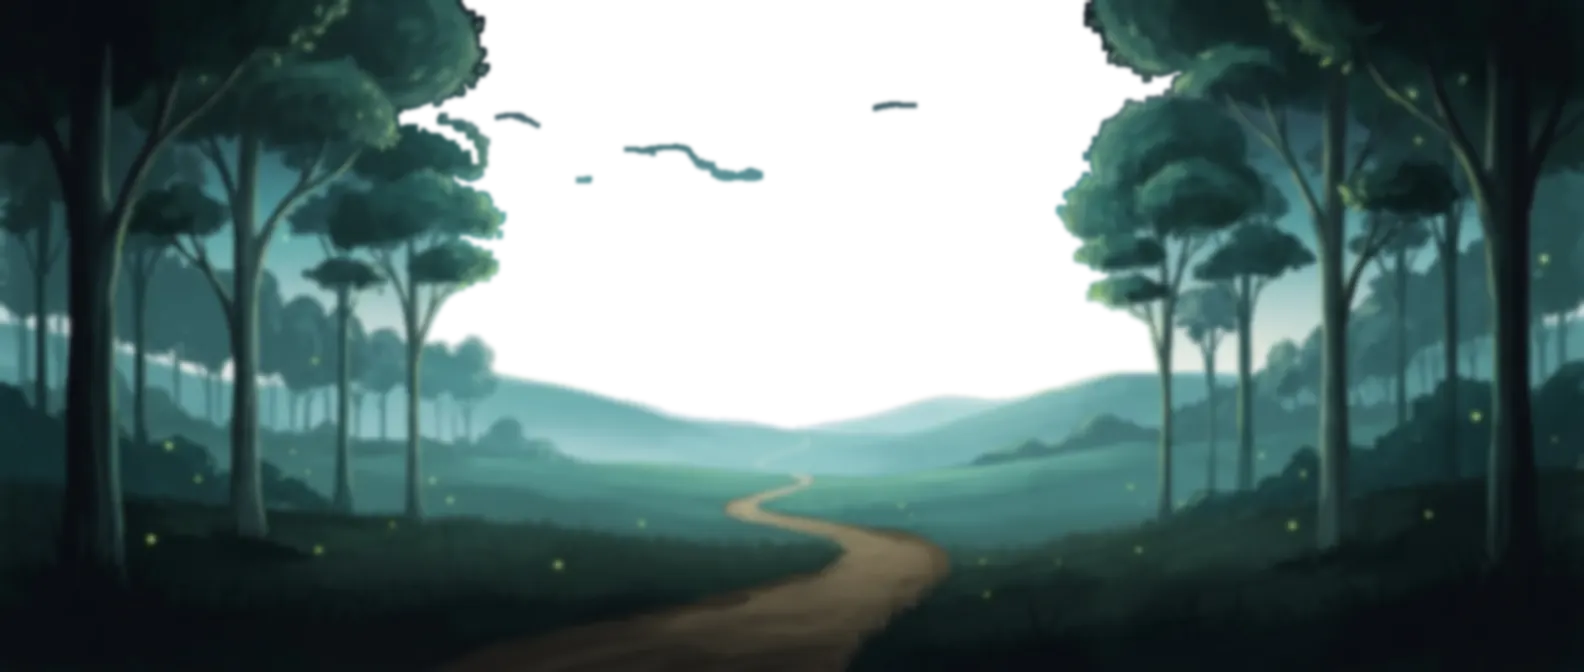
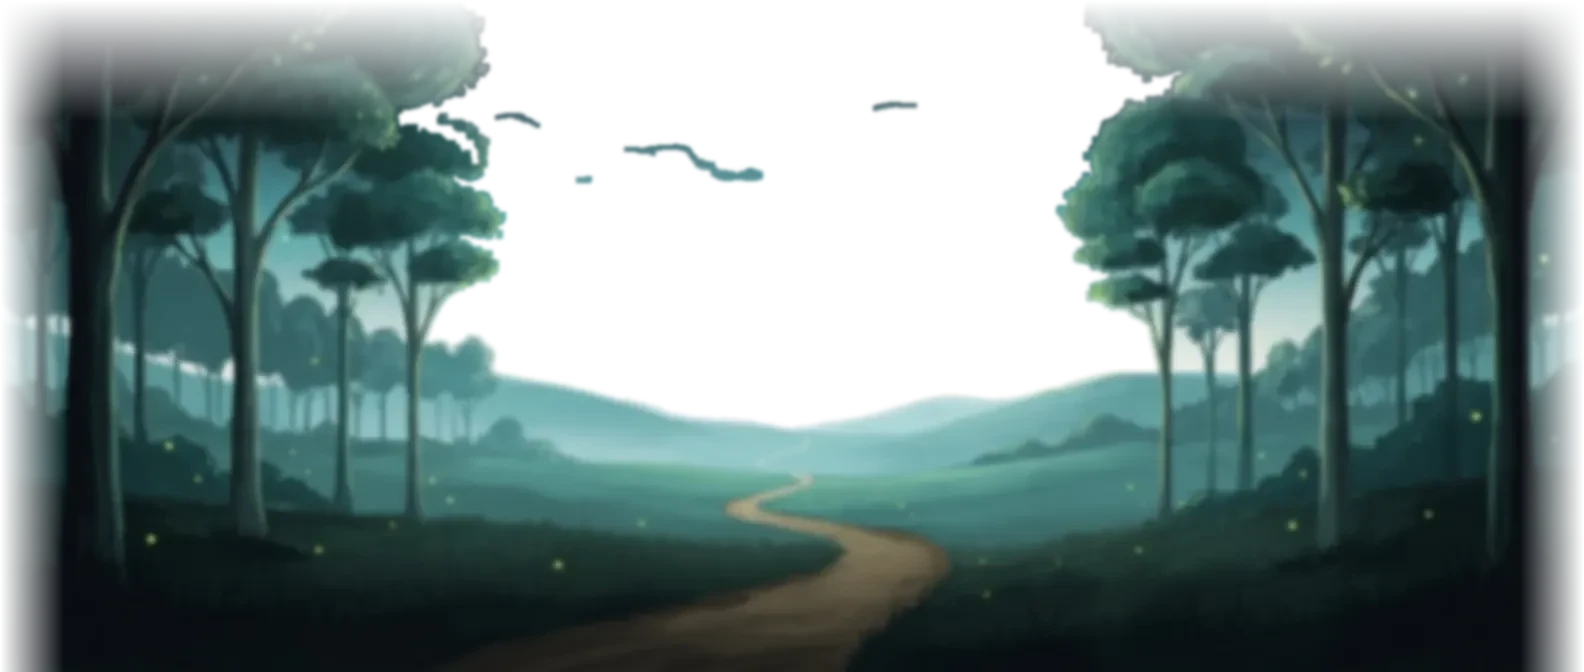
fix(bloomscroll): no ghost line along the tablet edge trees
The tall edge-tree pictures and the far painting had paint right on the
edges their CSS fades hide; when the layer is scaled during the walk-in,
Chrome let that edge column bleed through as a 1 px line. The same fades
are now built into the image files, so those edges are empty.

Changed region(s): [[0.6806, 0.0, 1.0, 1.0], [0.0, 0.0, 0.3093, 1.0]]

diff --git a/components/feed/BloomscrollScene.js b/components/feed/BloomscrollScene.js
@@ -20,7 +20,7 @@ import { BLOOMSCROLL_LOGO } from "@/components/Header/nav-links"
 // so a sharper file of the same shape replaces one with no other change.
 const IMG = "/images/bloomscroll/"
 // Bump when any scene image is replaced, so no browser mixes a cached old picture with new code
-const ART_V = "v=8"
+const ART_V = "v=9"
 const MOON = "moon.webp"
 const WIDE_ART = {
   sky: "sky.webp", far: "far-cut.webp", soft: "far-cut-blur.webp", clouds: "clouds.webp",

diff --git a/docs/bloomscroll-scene.md b/docs/bloomscroll-scene.md
@@ -13,7 +13,7 @@ The Bloomscroll page (`/feed`) opens with an animated festival scene: the visito
 - **Done:** the owner's wide concert painting (wheel and flames removed, stage recast as the concert) is in `festival-concert.webp`. The inputs, the cut script and the checks are in `../docs/design/bloomscroll/wide-concert-input-2026-10-25/`.
 - Every concert effect runs on every screen. The positions of the lights, hoops, flames and crowd are measured from each painting. The wheel stands where the original wide festival painted it.
 - **Tablet (portrait, 768 px and wider):** each festival group slides **6 %** of the painting's width toward the path. The approved value was 12 %, but the new left group is wider, so 6 % stops the groups overlapping (owner decision, 2026-10-25).
-- **No flat edges at the top (owner decision, 2026-10-25).** At some window shapes the far painting and the desktop near frame start below the top of the scene, and their tree tops ended in a straight line. The far painting fades into the sky over its top 18 % (desktop and tablet). The desktop near frame is never shorter than the scene, so its trees always run off the top: on screens shaped like 1440×900 it is drawn larger than the screen width needs (owner decision after QA, 2026-10-25).
+- **No flat edges at the top (owner decision, 2026-10-25).** At some window shapes the far painting and the desktop near frame start below the top of the scene, and their tree tops ended in a straight line. The far painting fades into the sky over its top 18 % (desktop and tablet; the fade is baked into `far-cut.webp` and `far-cut-blur.webp` as well, so no 1 px line shows on tablets). The desktop near frame is never shorter than the scene, so its trees always run off the top: on screens shaped like 1440×900 it is drawn larger than the screen width needs (owner decision after QA, 2026-10-25).
 
 ## How fidelity is guaranteed
 
